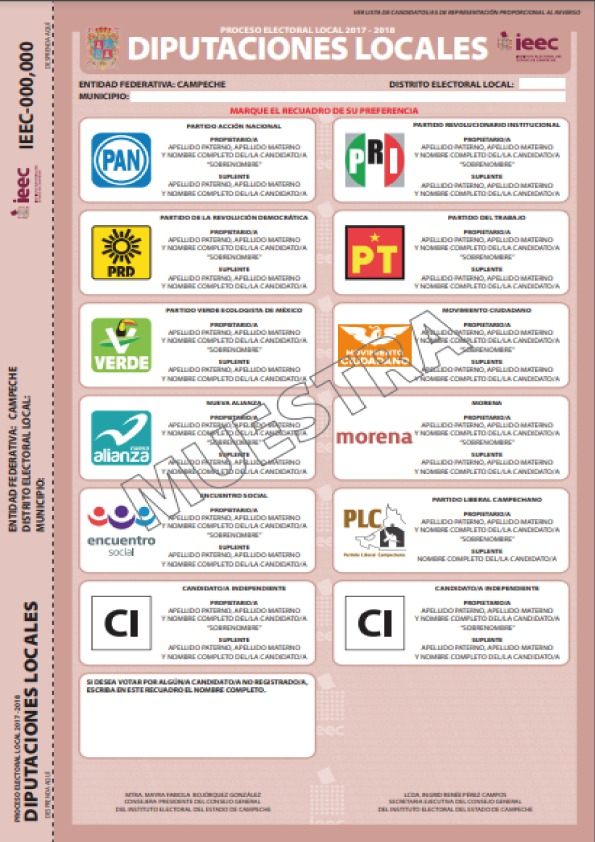
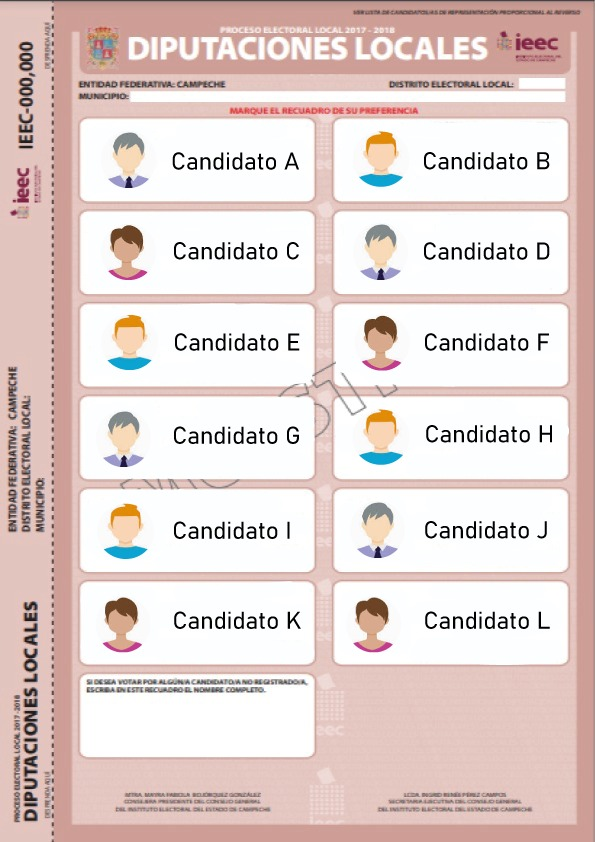
Changed images to generic instead of politics

Changed region(s): [[0.1513, 0.1235, 0.9378, 0.8029], [0.9983, 0.0, 1.0, 1.0]]

diff --git a/src/Components/Card/Card.js b/src/Components/Card/Card.js
@@ -5,7 +5,7 @@ import { confirmAlert } from 'react-confirm-alert'; // Import
 import 'react-confirm-alert/src/react-confirm-alert.css'; // Import css
 import './Card.css'
 
-import amlo from '../../Data/images/personaje-amlo.png'
+import personaje from '../../Data/images/personaje.jpg'
 import morena from '../../Data/images/logo-morena.png'
 import { Redirect } from 'react-router-dom';
 
@@ -28,14 +28,11 @@ class Card extends Component {
               return (
                 <div className='custom-ui'>
                     <h1>Has seleccionado a:</h1>
-                    <h1>Andrés Manuel López Obrador</h1>
+                    <h1>Candidato A</h1>
                     <h2>¿Estás seguro que deseas votar por él?</h2>
                     <Row>
-                        <Col>
-                            <img src={amlo} height="150px"/>
-                        </Col>
-                        <Col>
-                            <img src={morena} height="150px"/>
+                        <Col md={{ span: 6, offset: 3 }} style={{ paddingTop: "20px", paddingBottom: "20px" }}>
+                            <img src={personaje} height="150px"/>
                         </Col>
                     </Row>
                   <Row>

diff --git a/src/Components/Voting/Voting.js b/src/Components/Voting/Voting.js
@@ -31,7 +31,7 @@ class Voting extends Component {
 
     setGoOut() {
         if (this.state.goOut === false) {
-            setTimeout(() => this.setState({ goOut: true }), 3000) 
+            setTimeout(() => this.setState({ goOut: true }), 4000) 
         }
     }
 
@@ -84,7 +84,7 @@ class Voting extends Component {
                             </Row>
                             <Row>
                                 <h1 className='textHeader '>
-                                    Pulgar derecho y/o cara
+                                    Pulgar derecho
                                 </h1>
                             </Row>
                             <Row>
@@ -101,7 +101,7 @@ class Voting extends Component {
                                 color="#00BFFF"
                                 height={100}
                                 width={100}
-                                timeout={3000} //3 secs
+                                timeout={4000} //3 secs
                                 />
                             </Row>
                         </Col>
